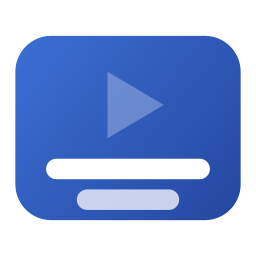
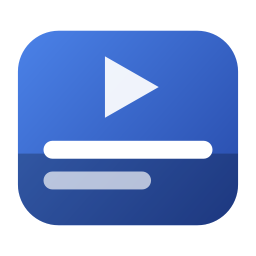
feat: 换程序图标
屏幕底部压一条深色字幕条，上面两行长短不一的白杠，播放三角只在 32px 以上画。
字幕条是关键——没有它就只是个普通播放器图标。16px 下也认得出来。

Claude-Session: https://claude.ai/code/session_01JmKAdXbtck3X7fQ4d2TnqL

diff --git a/scripts/make_icon.py b/scripts/make_icon.py
@@ -1,7 +1,8 @@
 """画程序图标，输出 src/subtitle_tool/assets/icon.ico（多尺寸）。
 
-图标要在 16×16 下还认得出来，所以只用两个元素：一块屏幕，加两行字幕。
-播放三角只在大尺寸下画——小尺寸上再加东西就糊成一团了。
+图标要在 16×16 下还认得出来：一块屏幕、底部一条压暗的字幕条、条上两行长短不一的白杠。
+字幕条是关键——没有它就只是个普通播放器图标。播放三角只在大尺寸下画，小尺寸上
+再加东西就糊成一团。
 
 ICO 用的是 Vista 之后支持的「内嵌 PNG」写法：一个目录头 + 每个尺寸一段 PNG。
 Qt 不一定带 ico 的写插件，所以容器自己拼，只借它写 PNG。
@@ -14,7 +15,14 @@ import sys
 sys.path.insert(0, os.path.join(os.path.dirname(__file__), "..", "src"))
 
 from PySide6.QtCore import QBuffer, QByteArray, QPointF, QRectF, Qt
-from PySide6.QtGui import QBrush, QColor, QImage, QLinearGradient, QPainter
+from PySide6.QtGui import (
+    QBrush,
+    QColor,
+    QImage,
+    QLinearGradient,
+    QPainter,
+    QPainterPath,
+)
 from PySide6.QtWidgets import QApplication
 
 SIZES = (16, 24, 32, 48, 64, 128, 256)
@@ -27,33 +35,48 @@ def draw(size: int) -> QImage:
     painter = QPainter(image)
     painter.setRenderHint(QPainter.Antialiasing)
     unit = size / 100.0
+    small = size < 32
 
-    # 屏幕：留一点边，圆角，深蓝到亮蓝的渐变
-    screen = QRectF(6 * unit, 14 * unit, 88 * unit, 72 * unit)
+    # 屏幕：整块圆角矩形，深蓝到亮蓝的渐变
+    screen = QRectF(7 * unit, 12 * unit, 86 * unit, 76 * unit)
+    radius = 16 * unit
     gradient = QLinearGradient(screen.topLeft(), screen.bottomRight())
-    gradient.setColorAt(0.0, QColor("#3b6fd4"))
-    gradient.setColorAt(1.0, QColor("#2547a0"))
+    gradient.setColorAt(0.0, QColor("#4b82e8"))
+    gradient.setColorAt(1.0, QColor("#2649a8"))
     painter.setPen(Qt.NoPen)
     painter.setBrush(QBrush(gradient))
-    painter.drawRoundedRect(screen, 14 * unit, 14 * unit)
+    painter.drawRoundedRect(screen, radius, radius)
 
-    # 播放三角：小尺寸下省掉，挤在一起反而看不清
-    if size >= 32:
-        painter.setBrush(QColor(255, 255, 255, 70))
+    # 底部压一条深色字幕条：有了这条，图标才不像个普通播放器
+    band = QRectF(screen.left(), screen.top() + 48 * unit, screen.width(), 28 * unit)
+    painter.save()
+    clip = QPainterPath()
+    clip.addRoundedRect(screen, radius, radius)
+    painter.setClipPath(clip)
+    painter.setBrush(QColor(0, 0, 0, 62))
+    painter.drawRect(band)
+    painter.restore()
+
+    # 播放三角，放在字幕条上方；小尺寸挤不下就省掉
+    if not small:
+        painter.setBrush(QColor(255, 255, 255, 235))
         painter.drawPolygon(
             [
-                QPointF(42 * unit, 28 * unit),
-                QPointF(64 * unit, 41 * unit),
-                QPointF(42 * unit, 54 * unit),
+                QPointF(41 * unit, 22 * unit),
+                QPointF(62 * unit, 34 * unit),
+                QPointF(41 * unit, 46 * unit),
             ]
         )
 
     # 两行字幕：长短不一才像字幕，也是整个图标的辨识点
     painter.setBrush(QColor("#ffffff"))
-    bar = 8 * unit
-    painter.drawRoundedRect(QRectF(18 * unit, 62 * unit, 64 * unit, bar), bar / 2, bar / 2)
-    painter.setBrush(QColor(255, 255, 255, 190))
-    painter.drawRoundedRect(QRectF(30 * unit, 74 * unit, 40 * unit, bar), bar / 2, bar / 2)
+    height = (9 if small else 7) * unit
+    top = (58 if small else 55) * unit
+    painter.drawRoundedRect(QRectF(17 * unit, top, 66 * unit, height), height / 2, height / 2)
+    painter.setBrush(QColor(255, 255, 255, 170))
+    painter.drawRoundedRect(
+        QRectF(17 * unit, top + height + 5 * unit, 42 * unit, height), height / 2, height / 2
+    )
     painter.end()
     return image
 
